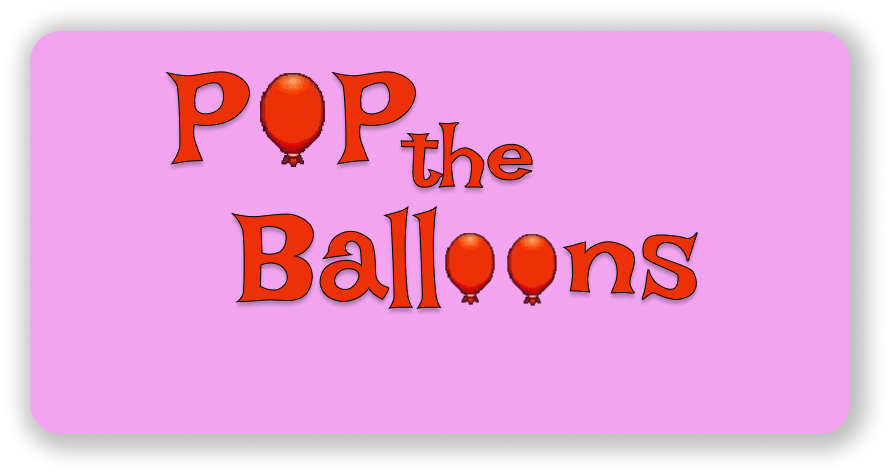
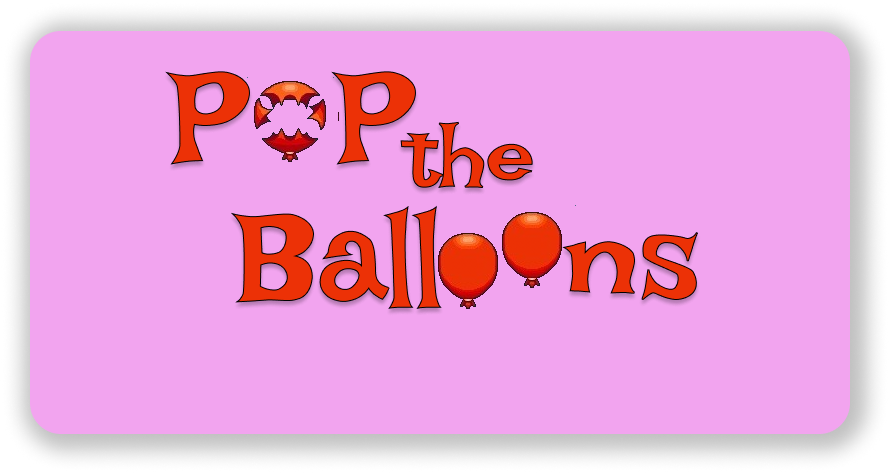
commit apresentação

Changed region(s): [[0.4854, 0.444, 0.6371, 0.6512], [0.273, 0.148, 0.364, 0.3552]]

diff --git a/PopBalloons/PopBalloons.cpp b/PopBalloons/PopBalloons.cpp
@@ -86,22 +86,22 @@ void PopBalloons::Init()
         scene->Add(balloon, MOVING);
     }
 
-    for (int i = 0; i < 20; i++) {
+    for (int i = 0; i < 15; i++) {
         balloon = new Balloon(balloonAudio, BLUE, tileBalloonBlue);
         balloon->MoveTo(random(80, 900), random(1200, 1500));
         scene->Add(balloon, MOVING);
     }
-    for (int i = 0; i < 50; i++) {
+    for (int i = 0; i < 35; i++) {
         balloon = new Balloon(balloonAudio, RED, tileBalloonRed);
         balloon->MoveTo(random(80, 900), random(1500, 3000));
         scene->Add(balloon, MOVING);
     }
-    for (int i = 0; i < 25; i++) {
+    for (int i = 0; i < 20; i++) {
         balloon = new Balloon(balloonAudio, BLUE, tileBalloonBlue);
         balloon->MoveTo(random(80, 900), random(2000, 3000));
         scene->Add(balloon, MOVING);
     }
-    for (int i = 0; i < 25; i++) {
+    for (int i = 0; i < 20; i++) {
         balloon = new Balloon(balloonAudio, RED, tileBalloonRed);
         balloon->MoveTo(random(80, 900), random(1500, 3000));
         scene->Add(balloon, MOVING);

diff --git a/PopBalloons/Vitoria.cpp b/PopBalloons/Vitoria.cpp
@@ -43,11 +43,11 @@ void Vitoria::Draw()
     Color White(1.0f, 1.0f, 1.0f, 1.0f);
     fundo->Draw(window->CenterX(), window->CenterY(), Layer::BACK);
 
-    text->Draw(300, 220, "WINNER!!", White, Layer::FRONT, 0.75f);
-    text->Draw(310, 300, "Thanks to play this game", White, Layer::UPPER, 0.25f);
+    text->Draw(320, 240, "WINNER!!", White, Layer::FRONT, 0.75f);
+    text->Draw(270, 310, "Thanks for playing this game", White, Layer::UPPER, 0.25f);
     if (dw) {
-        text->Draw(295, 400, "PRESS SPACE TO RESTART THE GAME", White, Layer::UPPER, 0.20f);
-        text->Draw(296, 400, "PRESS SPACE TO RESTART THE GAME", Black, Layer::FRONT, 0.20f);
+        text->Draw(295, 375, "PRESS SPACE TO RESTART THE GAME", White, Layer::UPPER, 0.20f);
+        text->Draw(296, 375, "PRESS SPACE TO RESTART THE GAME", Black, Layer::FRONT, 0.20f);
         fm++;
         if (fm >= mfm) {
             dw = false;

diff --git a/PopBalloons/telaInicial.h b/PopBalloons/telaInicial.h
@@ -22,6 +22,7 @@
 #include "Gif.h"
 #include "Balloon.h"
 #include "Audio.h"
+#include "Font.h"
 
 // ---------------------------------------------------------------------------------
 
@@ -36,8 +37,14 @@ private:
     Sprite* gram = nullptr;
     Sprite* wall = nullptr;
     Sprite* nome = nullptr;
+    Sprite* skills = nullptr;
+    Sprite* click = nullptr;
     TileSet * tileset = nullptr;
     Balloon * balloon = nullptr;
+    Font* text = nullptr;
+    int fm = 0;
+    int mfm = 30;
+    bool dw = false;
     bool ini;
     int time;
 public:
